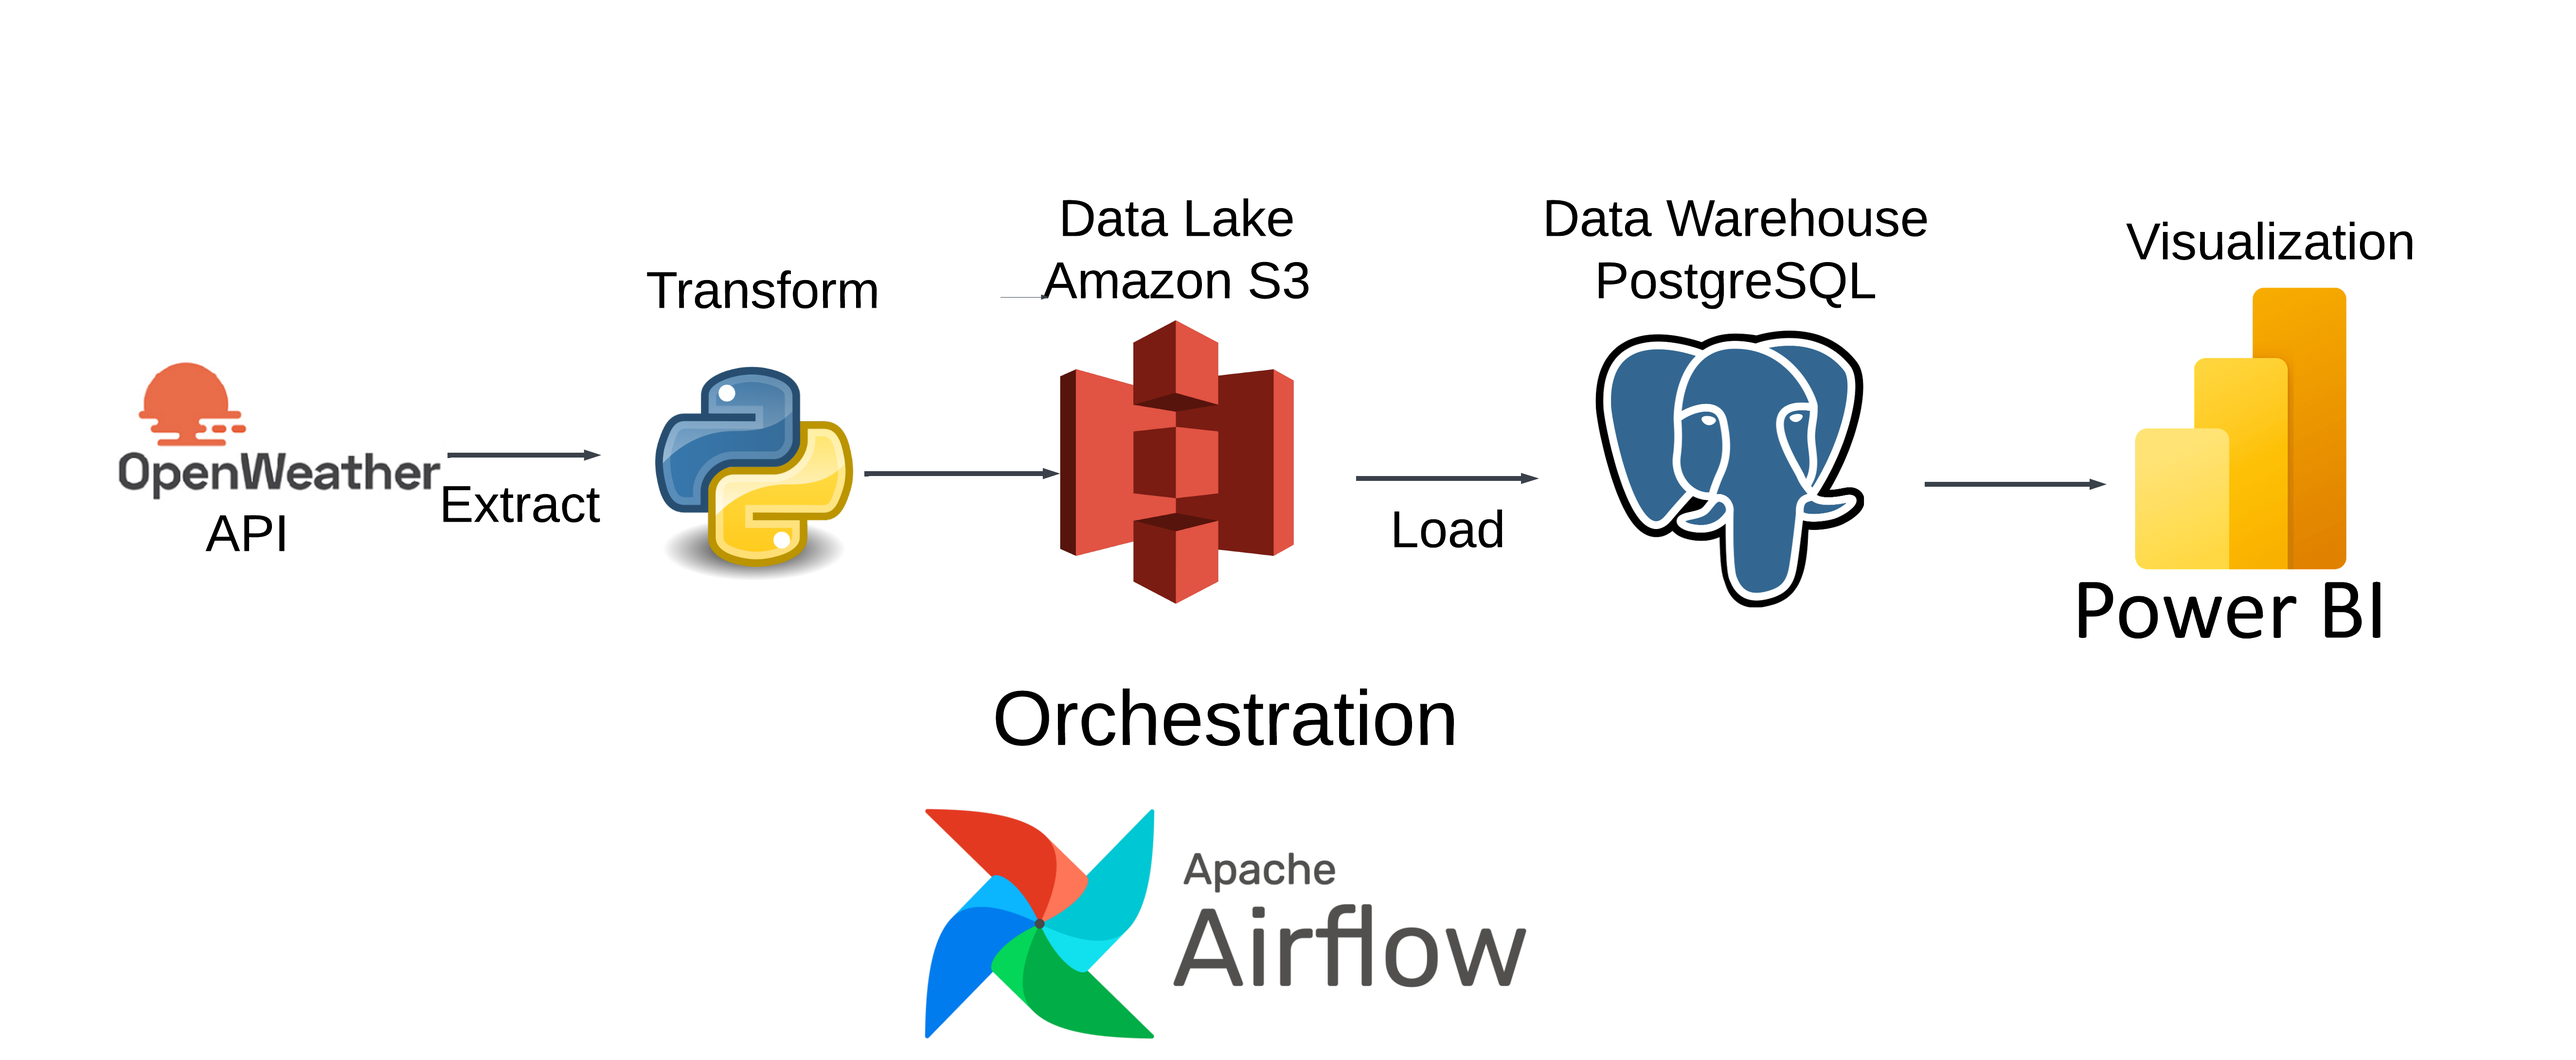
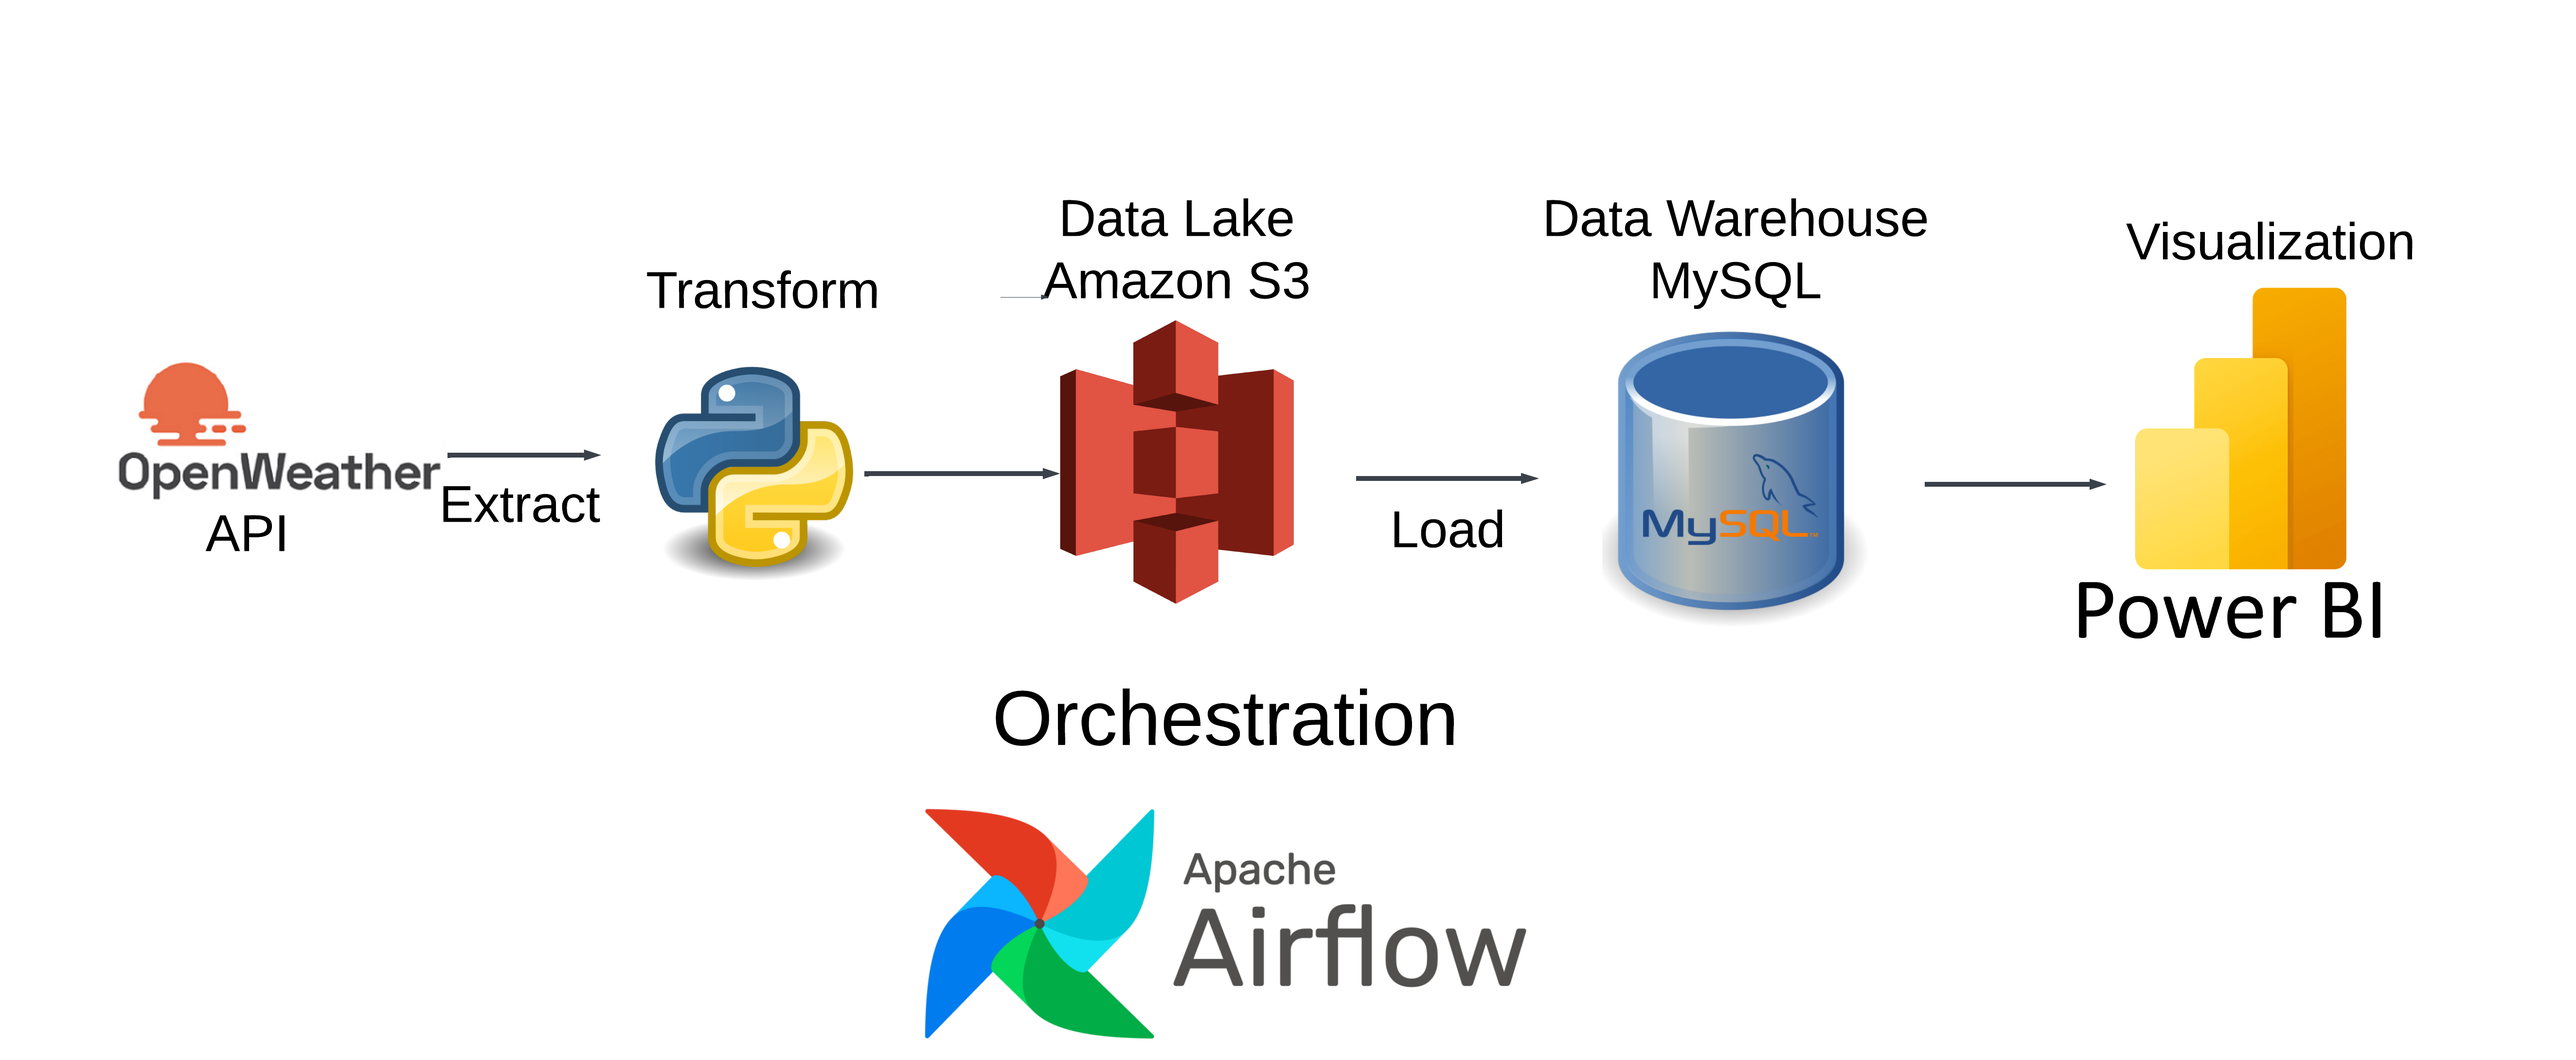
updated diagram on readme

Changed region(s): [[0.6231, 0.3119, 0.7477, 0.5927], [0.6231, 0.2495, 0.7166, 0.2807]]

diff --git a/README.md b/README.md
@@ -1,8 +1,8 @@
 # openweathermap-etl
 
 # Architecture Diagram
-1. Airflow: To schedule and orchestrate DAGs
-2. Amazon S3: To act as our data lake and store 
-3. PostgreSQL: To act as our data warehouse
-4. Power BI: To visualize the data in a dashboard
+1. `Airflow`: To schedule and orchestrate DAGs
+2. `Amazon S3`: To act as our data lake and store raw data
+3. `MySQL`: To act as our data warehouse
+4. `Power BI`: To visualize the data in a dashboard
 ![Screenshot](diagram.png)
